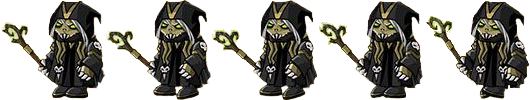
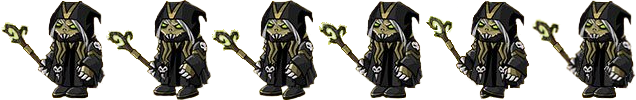
updated image

diff --git a/src/gameApp/monsters/Necromancer.ts b/src/gameApp/monsters/Necromancer.ts
@@ -25,7 +25,7 @@ export class Necromancer extends Monster{
 	static readonly imageHandler: ImageHandler = new ImageHandler();
 	
 	private static readonly image: HTMLImageElement = new Image(); //окраска монстра
-	private static readonly imageFrames = 5;
+	private static readonly imageFrames = 6;
 
 	private static readonly attackImage: HTMLImageElement = new Image();  //атака монстра
 	private static readonly attackImageFrames = 5;
